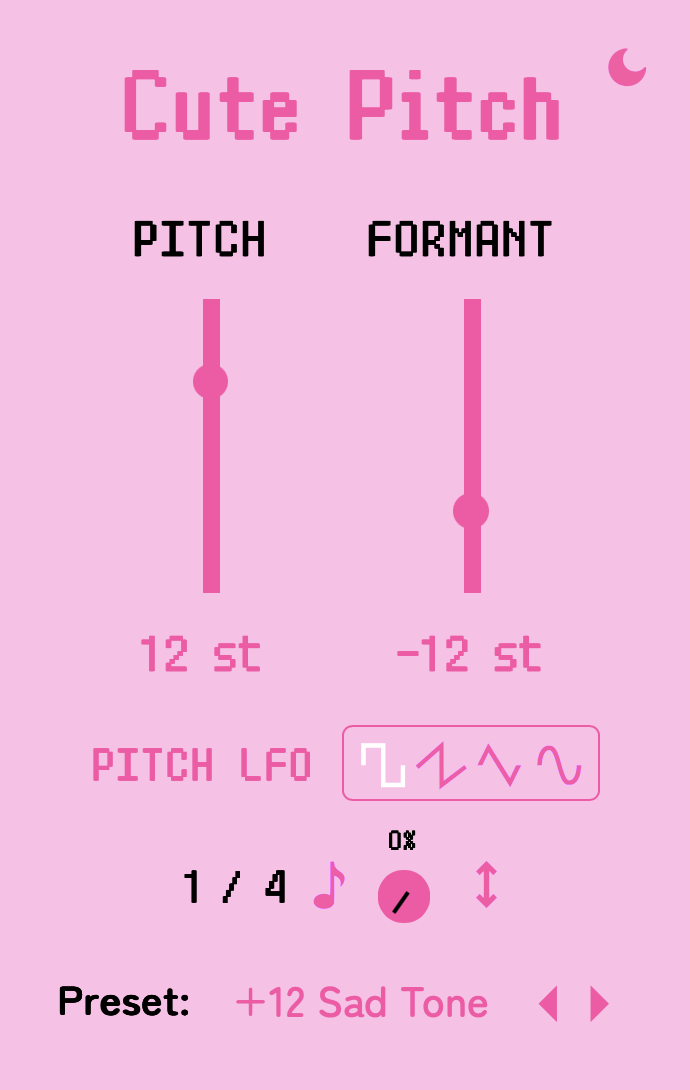
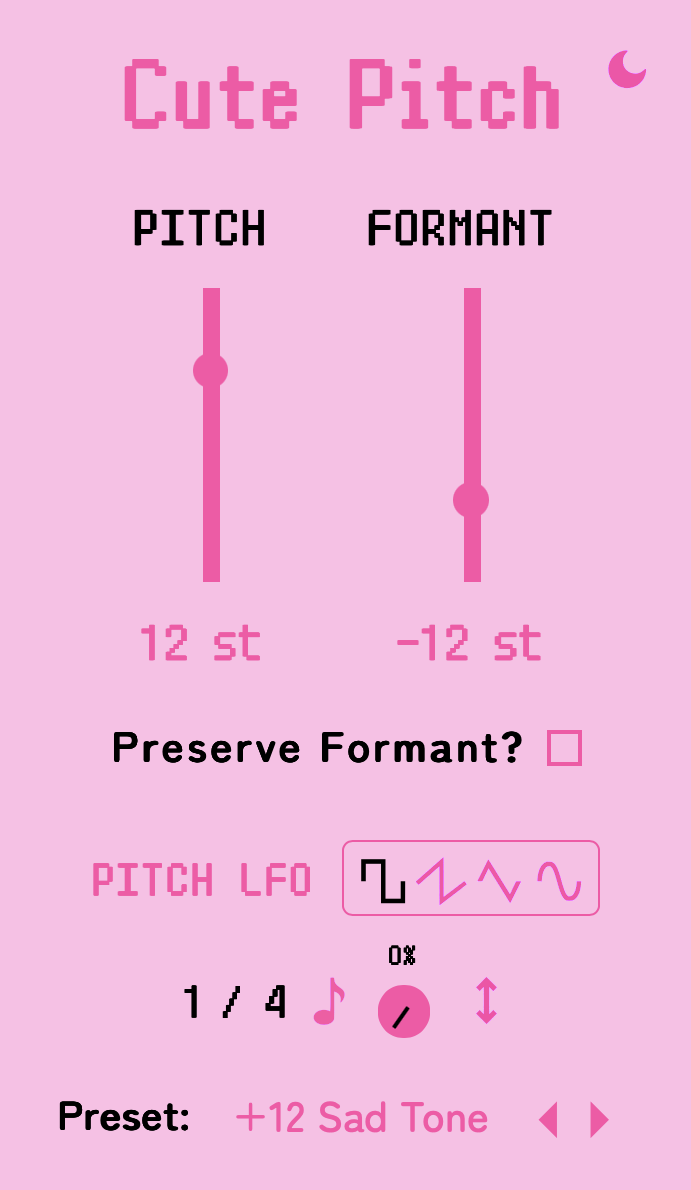
add preserve formant

diff --git a/components/styles/formantcheckbox.scss b/components/styles/formantcheckbox.scss
@@ -1,0 +1,29 @@
+.formant-checkbox-container {
+    display: flex;
+    flex-direction: row;
+    align-items: center;
+    justify-content: center;
+    gap: 1rem;
+}
+
+.formant-checkbox-text {
+    color: var(--textColor);
+    font-family: Nagino, sans-serif;
+    font-weight: bold;
+    letter-spacing: 0.12rem;
+    font-size: 2.0rem;
+    margin-bottom: 1.25rem;
+}
+
+.formant-checkbox {
+    width: 1.7rem;
+    height: 1.7rem;
+    border: 0.2rem solid var(--mainColor);
+    margin-top: -1.0rem;
+    border-radius: 0;
+    cursor: pointer;
+
+    &.checked {
+        background: var(--mainColor);
+    }
+}

diff --git a/components/FormantCheckbox.tsx b/components/FormantCheckbox.tsx
@@ -1,0 +1,18 @@
+import React, {useState, useRef, useEffect, useContext} from "react"
+import withJuceToggleButton, {WithJUCEToggleButtonProps} from "./withJuceToggleButton"
+import "./styles/formantcheckbox.scss"
+
+interface FormantCheckboxProps {
+    parameterID: string
+}
+
+const FormantCheckbox: React.FunctionComponent<FormantCheckboxProps & WithJUCEToggleButtonProps> = ({value, onChange}) => {
+    return (
+        <div className="formant-checkbox-container">
+            <span className="formant-checkbox-text">Preserve Formant?</span>
+            <div className={`formant-checkbox ${value ? "checked" : ""}`} onClick={() => onChange(!value)}></div>
+        </div>
+    )
+}
+
+export default withJuceToggleButton(FormantCheckbox)

diff --git a/index.tsx b/index.tsx
@@ -2,6 +2,7 @@ import "bootstrap/dist/css/bootstrap.min.css"
 import React, {useState, useEffect} from "react"
 import {createRoot} from "react-dom/client"
 import Slider from "./components/Slider"
+import FormantCheckbox from "./components/FormantCheckbox"
 import LFOBar from "./components/LFOBar"
 import PresetBar from "./components/PresetBar"
 import DarkIcon from "./assets/dark.svg"
@@ -63,6 +64,9 @@ const App: React.FunctionComponent = () => {
                     label={parameters.formant.id.toUpperCase()} 
                     parameterID={parameters.formant.id} 
                     color="#FF4EA7"/>
+            </div>
+            <div className="formant-container">
+                <FormantCheckbox parameterID={parameters.preserveFormant.id}/>
             </div>
             <div className="lfo-container">
                 <LFOBar 

diff --git a/processor/Processor.cpp b/processor/Processor.cpp
@@ -68,6 +68,8 @@ auto Processor::prepareToPlay(double sampleRate, int samplesPerBlock) -> void {
 
     this->pitchShifter.configure(getTotalNumInputChannels(), 5120, 1024, false);
     this->copyBuffer.setSize(getTotalNumOutputChannels(), samplesPerBlock);
+
+    this->setLatencySamples(this->pitchShifter.outputLatency());
 }
 
 auto Processor::releaseResources() -> void {}
@@ -97,23 +99,20 @@ auto Processor::processBlock(AudioBuffer<float>& buffer, [[maybe_unused]] MidiBu
     this->parameters.setHostInfo(bpm, ppq, timeSignature);
     this->parameters.blockUpdate();
 
-    this->parameters.update();
-
     int blocks = this->pitchShifter.blockSamples();
     int interval = this->pitchShifter.intervalSamples();
 
     if (this->parameters.pitchLFOAmount > 0.0f) {
         if (blocks != 2048 && interval != 384) {
             this->pitchShifter.configure(getTotalNumInputChannels(), 2048, 384, false);
+            this->setLatencySamples(this->pitchShifter.outputLatency());
         }
     } else {
         if (blocks != 5120 && interval != 1024) {
             this->pitchShifter.configure(getTotalNumInputChannels(), 5120, 1024, false);
+            this->setLatencySamples(this->pitchShifter.outputLatency());
         }
     }
-
-    this->pitchShifter.setTransposeSemitones(this->parameters.pitch);
-    this->pitchShifter.setFormantSemitones(this->parameters.formant);
 
     this->copyBuffer.makeCopyOf(buffer);
  
@@ -123,7 +122,35 @@ auto Processor::processBlock(AudioBuffer<float>& buffer, [[maybe_unused]] MidiBu
     this->outputSamples[0] = buffer.getWritePointer(0);
     this->outputSamples[1] = buffer.getNumChannels() > 1 ? buffer.getWritePointer(1): this->outputSamples[0];
 
-    this->pitchShifter.process(this->inputSamples, buffer.getNumSamples(), this->outputSamples, buffer.getNumSamples());
+    double ppqPerSample = (bpm / 60.0) / getSampleRate();
+
+    int chunkSize = 64;
+
+    for (int sample = 0; sample < buffer.getNumSamples(); sample+=chunkSize) {
+        if (ppq > 0.0) {
+            double samplePPQ = ppq + sample * ppqPerSample;
+            this->parameters.pitchLFO.syncPPQ(samplePPQ);
+        }
+
+        this->parameters.update();
+        
+        this->pitchShifter.setTransposeSemitones(this->parameters.pitch);
+        this->pitchShifter.setFormantSemitones(this->parameters.formant, this->parameters.preserveFormant);
+
+        int count = std::min(chunkSize, buffer.getNumSamples() - sample);
+
+        float* in[2] = {
+            this->inputSamples[0] + sample,
+            this->inputSamples[1] + sample
+        };
+
+        float* out[2] = {
+            this->outputSamples[0] + sample,
+            this->outputSamples[1] + sample
+        };
+
+        this->pitchShifter.process(in, count, out, count);
+    }
 
     #if JUCE_DEBUG
         Functions::checkAudioSafety(buffer);

diff --git a/processor/Parameters.cpp b/processor/Parameters.cpp
@@ -44,7 +44,8 @@ Parameters::Parameters(AudioProcessorValueTreeState& tree) : tree(tree) {
     };
 
     auto boolParameters = std::vector<BoolPair>{
-        {pitchLFOInvertParam, &paramIDs.pitchLFOInvert}
+        {pitchLFOInvertParam, &paramIDs.pitchLFOInvert},
+        {preserveFormantParam, &paramIDs.preserveFormant}
     };
 
     auto choiceParameters = std::vector<ChoicePair>{
@@ -77,6 +78,10 @@ auto Parameters::createParameterLayout() -> AudioProcessorValueTreeState::Parame
         paramIDs.formant, "Formant", NormalisableRange<float>{-24.0f, 24.0f, 0.0f}, 0.0f,
         AudioParameterFloatAttributes().withStringFromValueFunction(Functions::displaySemitones)
         .withValueFromStringFunction(Functions::parseSemitones)
+    ));
+
+    layout.add(std::make_unique<AudioParameterBool>(
+        paramIDs.preserveFormant, "Preserve Formant", false
     ));
 
     layout.add(std::make_unique<AudioParameterChoice>(
@@ -181,6 +186,8 @@ auto Parameters::blockUpdate() noexcept -> void {
     for (const auto& [param, smoother] : smoothers) {
         smoother->setTargetValue(param->get());
     }
+
+    this->preserveFormant = this->preserveFormantParam->get();
 
     this->pitchLFO.setType(this->pitchLFOTypeParam->getCurrentChoiceName());
     this->pitchLFO.setSyncedRate(this->pitchLFORateParam->get());

diff --git a/editor/BinaryData.h b/editor/BinaryData.h
@@ -5,12 +5,12 @@
 namespace BinaryData
 {
     extern const char*  parameters_json;
-    const int           parameters_jsonSize = 334;
+    const int           parameters_jsonSize = 398;
 
     extern const char*  presets_zip;
-    const int           presets_zipSize = 7655;
+    const int           presets_zipSize = 7810;
 
     extern const char*  webview_files_zip;
-    const int           webview_files_zipSize = 3574413;
+    const int           webview_files_zipSize = 4079931;
 
 }

diff --git a/editor/Editor.cpp b/editor/Editor.cpp
@@ -10,7 +10,7 @@ Editor::Editor(Processor& p) : AudioProcessorEditor(&p), processor(p),
     webview.goToURL(webview.getResourceProviderRoot());
 
     int width = static_cast<int>(Settings::getSettingKey("windowWidth", 350));
-    int height = static_cast<int>(Settings::getSettingKey("windowHeight", 550));
+    int height = static_cast<int>(Settings::getSettingKey("windowHeight", 600));
     float aspectRatio = static_cast<float>(width) / static_cast<float>(height);
 
     int minWidth = 240;
@@ -43,6 +43,7 @@ auto Editor::webviewOptions() -> WebBrowserComponent::Options {
     .withKeepPageLoadedWhenBrowserIsHidden()
     .withOptionsFrom(pitchRelay)
     .withOptionsFrom(formantRelay)
+    .withOptionsFrom(preserveFormantRelay)
     .withOptionsFrom(pitchLFOTypeRelay)
     .withOptionsFrom(pitchLFORateRelay)
     .withOptionsFrom(pitchLFOAmountRelay)

diff --git a/editor/Editor.h b/editor/Editor.h
@@ -28,6 +28,9 @@ private:
     WebSliderRelay formantRelay {Parameters::paramIDs.formant.getParamID()};
     WebSliderParameterAttachment formantAttachment {*this->processor.parameters.formantParam, formantRelay, nullptr};
 
+    WebToggleButtonRelay preserveFormantRelay {Parameters::paramIDs.preserveFormant.getParamID()};
+    WebToggleButtonParameterAttachment preserveFormantRelayAttachment {*this->processor.parameters.preserveFormantParam, preserveFormantRelay, nullptr};
+
     WebComboBoxRelay pitchLFOTypeRelay {Parameters::paramIDs.pitchLFOType.getParamID()};
     WebComboBoxParameterAttachment pitchLFOTypeAttachment {*this->processor.parameters.pitchLFOTypeParam, pitchLFOTypeRelay, nullptr};
     WebSliderRelay pitchLFORateRelay {Parameters::paramIDs.pitchLFORate.getParamID()};

diff --git a/processor/Parameters.h b/processor/Parameters.h
@@ -28,6 +28,9 @@ public:
     float formant = 0.0f;
     AudioParameterFloat* formantParam;
 
+    bool preserveFormant = false;
+    AudioParameterBool*  preserveFormantParam;
+
     LFO pitchLFO;
     float pitchLFOAmount = 0.0f;
     AudioParameterChoice* pitchLFOTypeParam;

diff --git a/processor/ParameterIDs.hpp b/processor/ParameterIDs.hpp
@@ -6,6 +6,7 @@ class ParameterIDs {
 public:
     ParameterID pitch;
     ParameterID formant;
+    ParameterID preserveFormant;
     ParameterID pitchLFOType;
     ParameterID pitchLFORate;
     ParameterID pitchLFOAmount;
@@ -39,6 +40,7 @@ public:
 
         parameterIDs.pitch = getParameter("pitch");
         parameterIDs.formant = getParameter("formant");
+        parameterIDs.preserveFormant = getParameter("preserveFormant");
         parameterIDs.pitchLFOType = getParameter("pitchLFOType");
         parameterIDs.pitchLFORate = getParameter("pitchLFORate");
         parameterIDs.pitchLFOAmount = getParameter("pitchLFOAmount");

diff --git a/readme.md b/readme.md
@@ -7,6 +7,7 @@ Cute Pitch is a VST plugin for pitch and formant shifting.
 ### Controls:
 - Pitch - the pitch shift in semitones (-24/+24)
 - Formant - the formant shift in semitones (-24/+24)
+- Preserve Formant - the algorithm preserves formants if enabled
 - Pitch LFO Waveform - pick from square, sawtooth, triangle, and sine shapes for the pitch LFO. 
 - Pitch LFO Rate - the speed of the pitch LFO in bpm synced times.
 - Pitch LFO Amount - the amount of the pitch LFO effect applied.